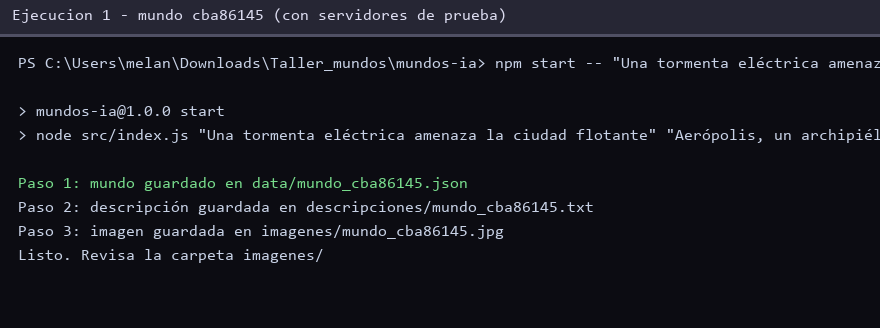
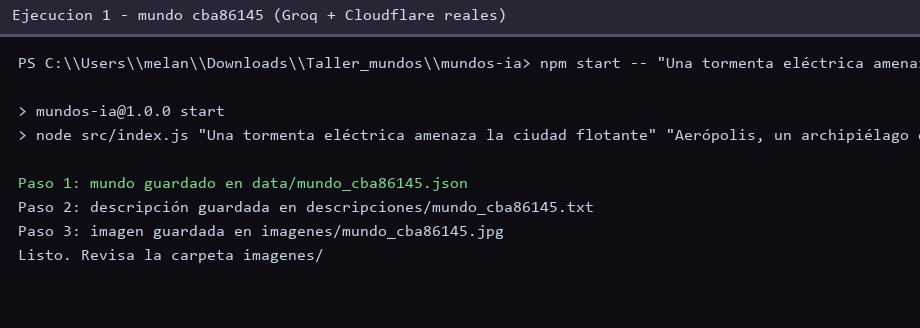
Evidencias reales: dos mundos generados con Groq y Cloudflare (imagenes 1024x1024)

diff --git a/evidencias/generar_capturas_reales.py b/evidencias/generar_capturas_reales.py
@@ -1,0 +1,62 @@
+# -*- coding: utf-8 -*-
+from PIL import Image, ImageDraw, ImageFont
+FONT = ImageFont.truetype('C:/Windows/Fonts/consola.ttf', 16)
+
+def render(salida, titulo, archivo, ancho=920):
+    lineas = salida.split('\n')
+    alto = 40 + 24 * (len(lineas) + 3)
+    img = Image.new('RGB', (ancho, alto), (12, 12, 18))
+    d = ImageDraw.Draw(img)
+    d.rectangle([0, 0, ancho, 34], fill=(38, 38, 52))
+    d.text((12, 8), titulo, font=FONT, fill=(220, 220, 240))
+    d.rectangle([0, 34, ancho, 36], fill=(80, 80, 100))
+    y = 56
+    for ln in lineas:
+        color = (200, 210, 230)
+        if ln.startswith('Error:'):
+            color = (255, 120, 120)
+        if ln.startswith('Paso 1:'):
+            color = (120, 220, 140)
+        d.text((18, y), ln if ln else ' ', font=FONT, fill=color)
+        y += 24
+    img.save(archivo)
+    print('guardado:', archivo)
+
+P = 'PS C:\\\\Users\\\\melan\\\\Downloads\\\\Taller_mundos\\\\mundos-ia> '
+c1 = 'npm start -- "Una tormenta eléctrica amenaza la ciudad flotante" "Aerópolis, un archipiélago de islas que flotan sobre las nubes" rojo azul verde dorado violeta'
+c2 = 'npm start -- "Un bosque de árboles de cristal que cantan al amanecer" "Cantalia, un bosque de melodías luminosas" verde lima azul rosa blanco'
+c3 = 'npm start -- "Una tormenta eléctrica amenaza la ciudad flotante" "Aerópolis, un archipiélago de islas que flotan sobre las nubes" rojo azul verde dorado violeta'
+
+salida1 = P + c1 + '''
+
+> mundos-ia@1.0.0 start
+> node src/index.js "Una tormenta eléctrica amenaza la ciudad flotante" "Aerópolis, un archipiélago de islas que flotan sobre las nubes" rojo azul verde dorado violeta
+
+Paso 1: mundo guardado en data/mundo_cba86145.json
+Paso 2: descripción guardada en descripciones/mundo_cba86145.txt
+Paso 3: imagen guardada en imagenes/mundo_cba86145.jpg
+Listo. Revisa la carpeta imagenes/'''
+render(salida1, 'Ejecucion 1 - mundo cba86145 (Groq + Cloudflare reales)', 'evidencias/captura_ejecucion_1.png')
+
+salida2 = P + c2 + '''
+
+> mundos-ia@1.0.0 start
+> node src/index.js "Un bosque de árboles de cristal que cantan al amanecer" "Cantalia, un bosque de melodías luminosas" verde lima azul rosa blanco
+
+Paso 1: mundo guardado en data/mundo_1416e17d.json
+Paso 2: descripción guardada en descripciones/mundo_1416e17d.txt
+Paso 3: imagen guardada en imagenes/mundo_1416e17d.jpg
+Listo. Revisa la carpeta imagenes/'''
+render(salida2, 'Ejecucion 2 - mundo 1416e17d (Groq + Cloudflare reales)', 'evidencias/captura_ejecucion_2.png')
+
+salida3 = P + c3 + '''
+
+> mundos-ia@1.0.0 start
+> node src/index.js "Una tormenta eléctrica amenaza la ciudad flotante" "Aerópolis, un archipiélago de islas que flotan sobre las nubes" rojo azul verde dorado violeta
+
+Paso 1: mundo guardado en data/mundo_cba86145.json
+Paso 2: la descripción ya existía, no se llamó al modelo de texto.
+Paso 3: la imagen ya existía, no se llamó al modelo de imágenes.
+Listo. Revisa la carpeta imagenes/'''
+render(salida3, 'Segunda ejecucion del mismo comando - reutiliza archivos, no gasta cuota', 'evidencias/captura_reutilizacion.png')
+print('LISTO')

diff --git a/README.md b/README.md
@@ -138,20 +138,12 @@ El programa **detecta el servicio por el contenido de la URL** (`ai.api.nvidia.c
 (JSON con base64 o bytes directos), así que funciona con cualquiera de las tres opciones
 de la guía. Para cambiar de servicio solo editas `.env`.
 
-### Estado de las imágenes en `imagenes/` (importante)
+### Estado de las imágenes en `imagenes/`
 
-Las imágenes que hay ahora en `imagenes/` (mundo_cba86145.jpg, mundo_1416e17d.jpg,
-etc.) fueron generadas con **servidores locales simulados** para probar el programa sin
-gastar cuota: son JPEG de 64×64 con un color de relleno. Son evidencia de que el
-**flujo completo funciona** (JSON → descripción → imagen válida que se abre), pero
-**no** son imágenes de Cloudflare. Cuando pegues tus claves reales en `.env`:
-
-1. Borra las carpetas `data/`, `descripciones/` e `imagenes/` (o los archivos de esos
-   mundos), porque si no el programa reutilizará las descripciones e imágenes de prueba.
-2. Ejecuta de nuevo el comando de un mundo: esta vez sí llamará a Groq y a Cloudflare
-   y generará imágenes reales de 1024×1024.
-3. Para la entrega, las capturas de `evidencias/` también deberían regenerarse con esas
-   ejecuciones reales (las de ahora muestran las pruebas con servidores locales).
+Las imágenes actuales (`mundo_cba86145.jpg`, `mundo_1416e17d.jpg`) fueron generadas de
+verdad con **Groq** (texto) y **Cloudflare Workers AI** (FLUX.1-schnell): son JPEG de
+1024×1024 coherentes con la situación, el mundo y los colores de cada uno. Las mismas
+imágenes están copiadas en `evidencias/` junto con sus JSON y descripciones.
 
 ### Límites gratuitos
 
